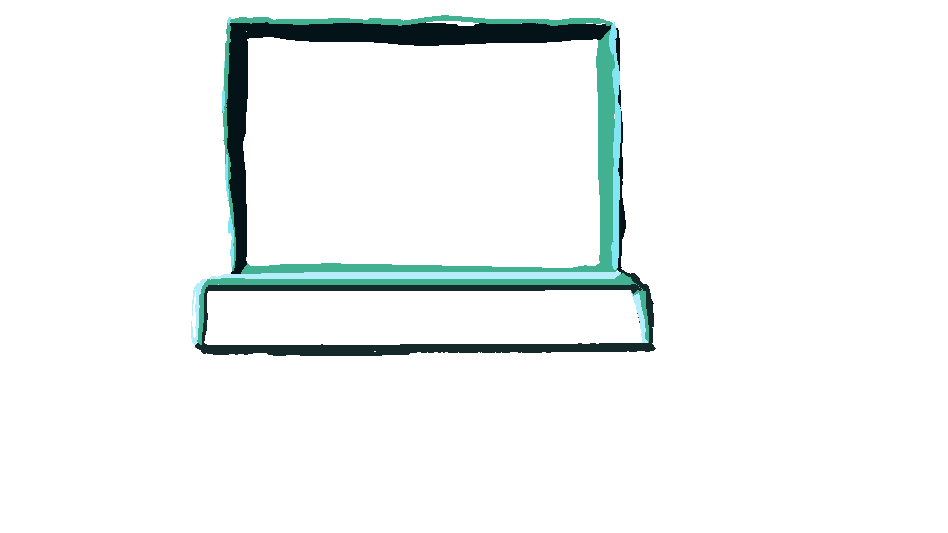
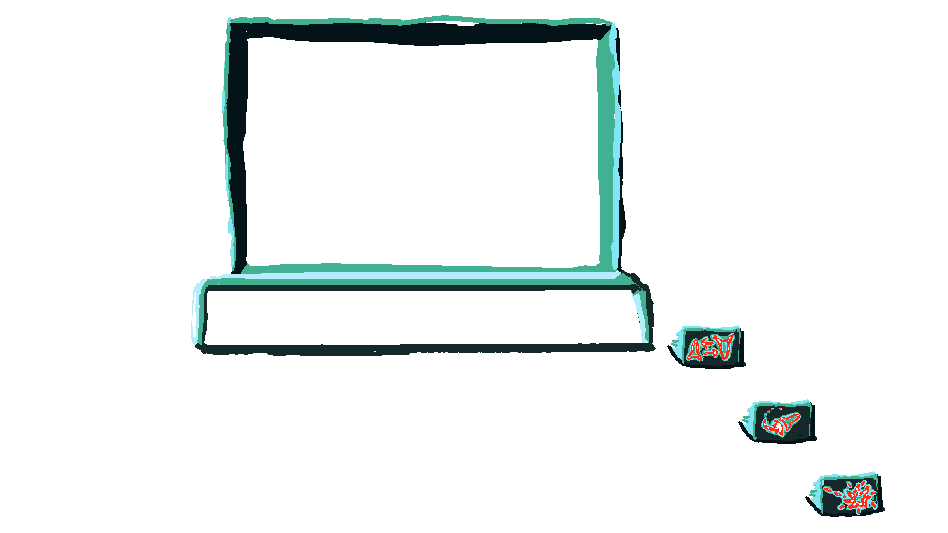
book

Changed region(s): [[0.8565, 0.8705, 0.9483, 0.9906], [0.7648, 0.7505, 0.8871, 0.8405], [0.7036, 0.6004, 0.7954, 0.6904]]

diff --git a/src/main.c b/src/main.c
@@ -13,7 +13,6 @@
 #include <SDL2/SDL.h>
 #include <stdio.h>
 #include <stdlib.h>
-#include <wchar.h>
 //flags
 #define printfps 1
 //macros
@@ -47,6 +46,7 @@ enum txIdx {
     TXspace,
     TXbg,
     TXfg,
+    TXbook0,
     TX_COUNT
 };
 
@@ -54,6 +54,7 @@ txture txs[TX_COUNT] = {
     [TXspace] = { "res/screen/space180x120.png", NULL },
     [TXbg] = { "res/ld59bg.png", NULL },
     [TXfg] = { "res/ld59fg.png", NULL },
+    [TXbook0] = { "res/book/ld59book_0000.png", NULL },
 };
 
 I mx; I my; //mouse
@@ -155,7 +156,7 @@ MsgCode alienTalk2[Msg_COUNT] = {
 };
 
 MsgCode alienTalk3[Msg_COUNT] = {
-   [Hi]        = { { BLUE,  GREEN, PINK,  RED   }, Hi        },
+   [Hi]        = { { GREEN, BLUE, GREEN, GREEN }, Hi        },
    [Question]  = { { BLACK, BLACK, BLACK, BLACK }, Ignore    },
    [Ignore]    = { { BLACK, BLACK, BLACK, BLACK }, Ignore    },
    [Refuel]    = { { RED,   PINK,  GREEN, BLUE  }, Refuel    },
@@ -502,10 +503,15 @@ V render(){
    SDL_RenderCopy(rend, txs[TXbg].tx, NULL, &dst);
    SDL_RenderCopy(rend, ScTx, NULL, NULL);
    drawDisp(disp1, p);
+
+
    for(I i = 0; i < MX_BTNS; i++){
       drwBtn(btns[i]);
    }
+   SDL_Rect bookdst = {-30, 170, 300, 300};
    SDL_RenderCopy(rend, txs[TXfg].tx, NULL, &dst);
+   SDL_RenderCopy(rend, txs[TXbook0].tx, NULL, &bookdst);
+      drwBtn(btns[1]);
    //****************TODO DELETE SHITTY SCREENSHOT CODE******************************''
    //****************TODO DELETE SHITTY SCREENSHOT CODE******************************''
    //****************TODO DELETE SHITTY SCREENSHOT CODE******************************''
